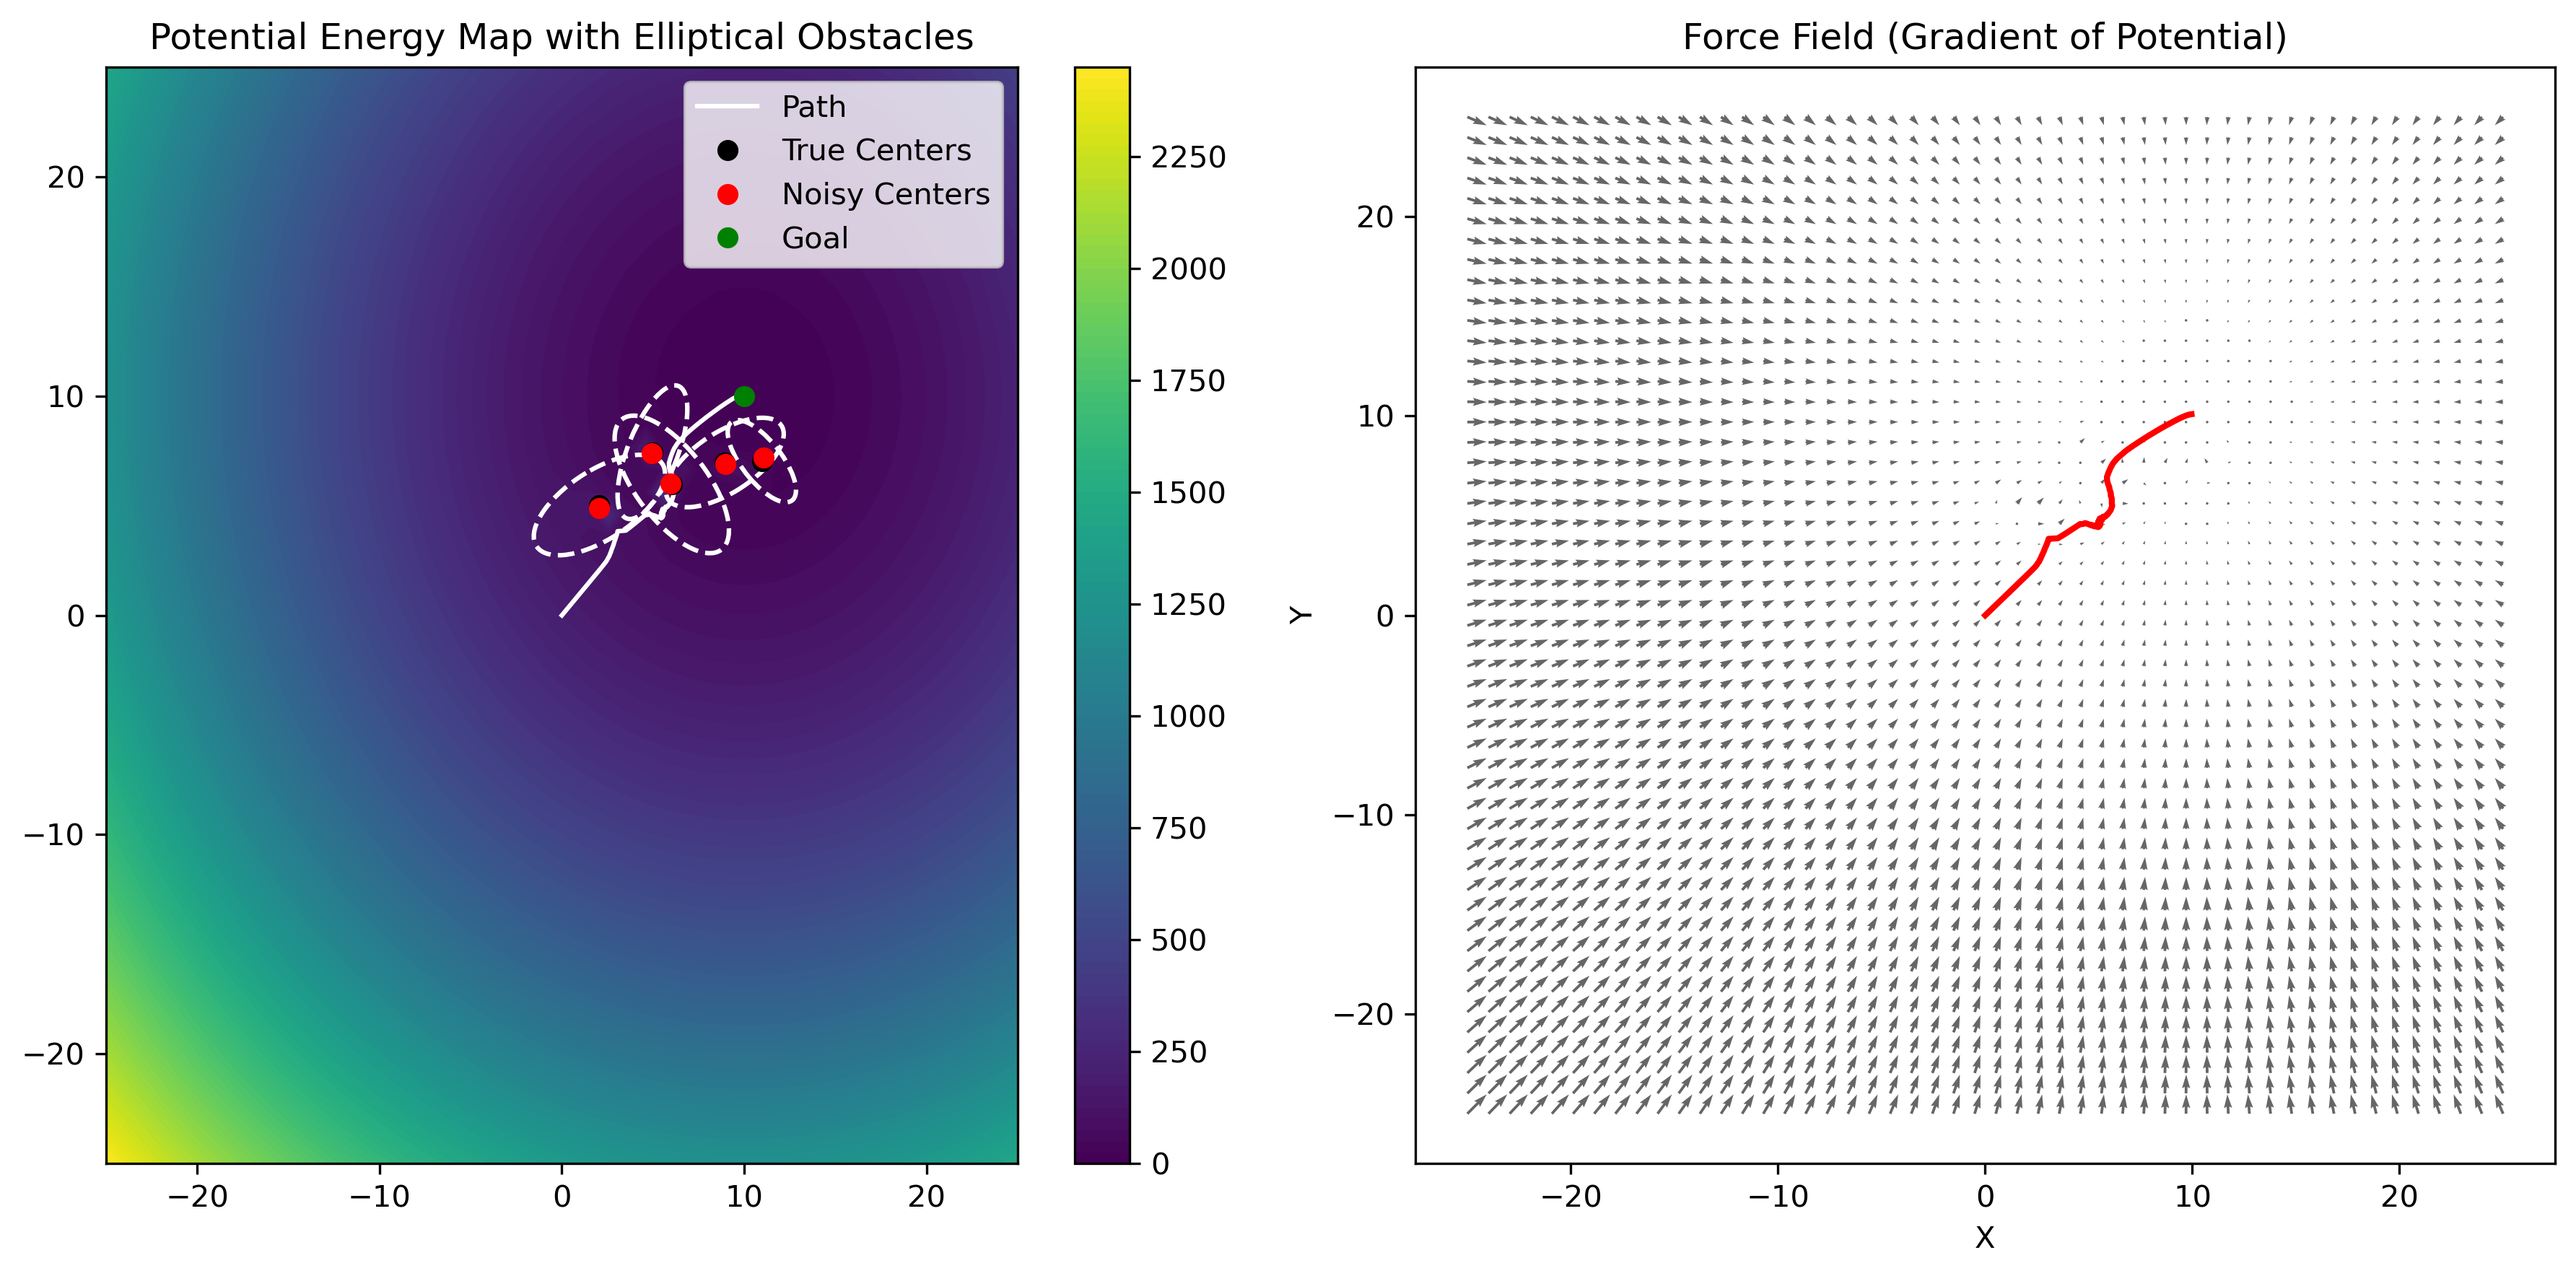
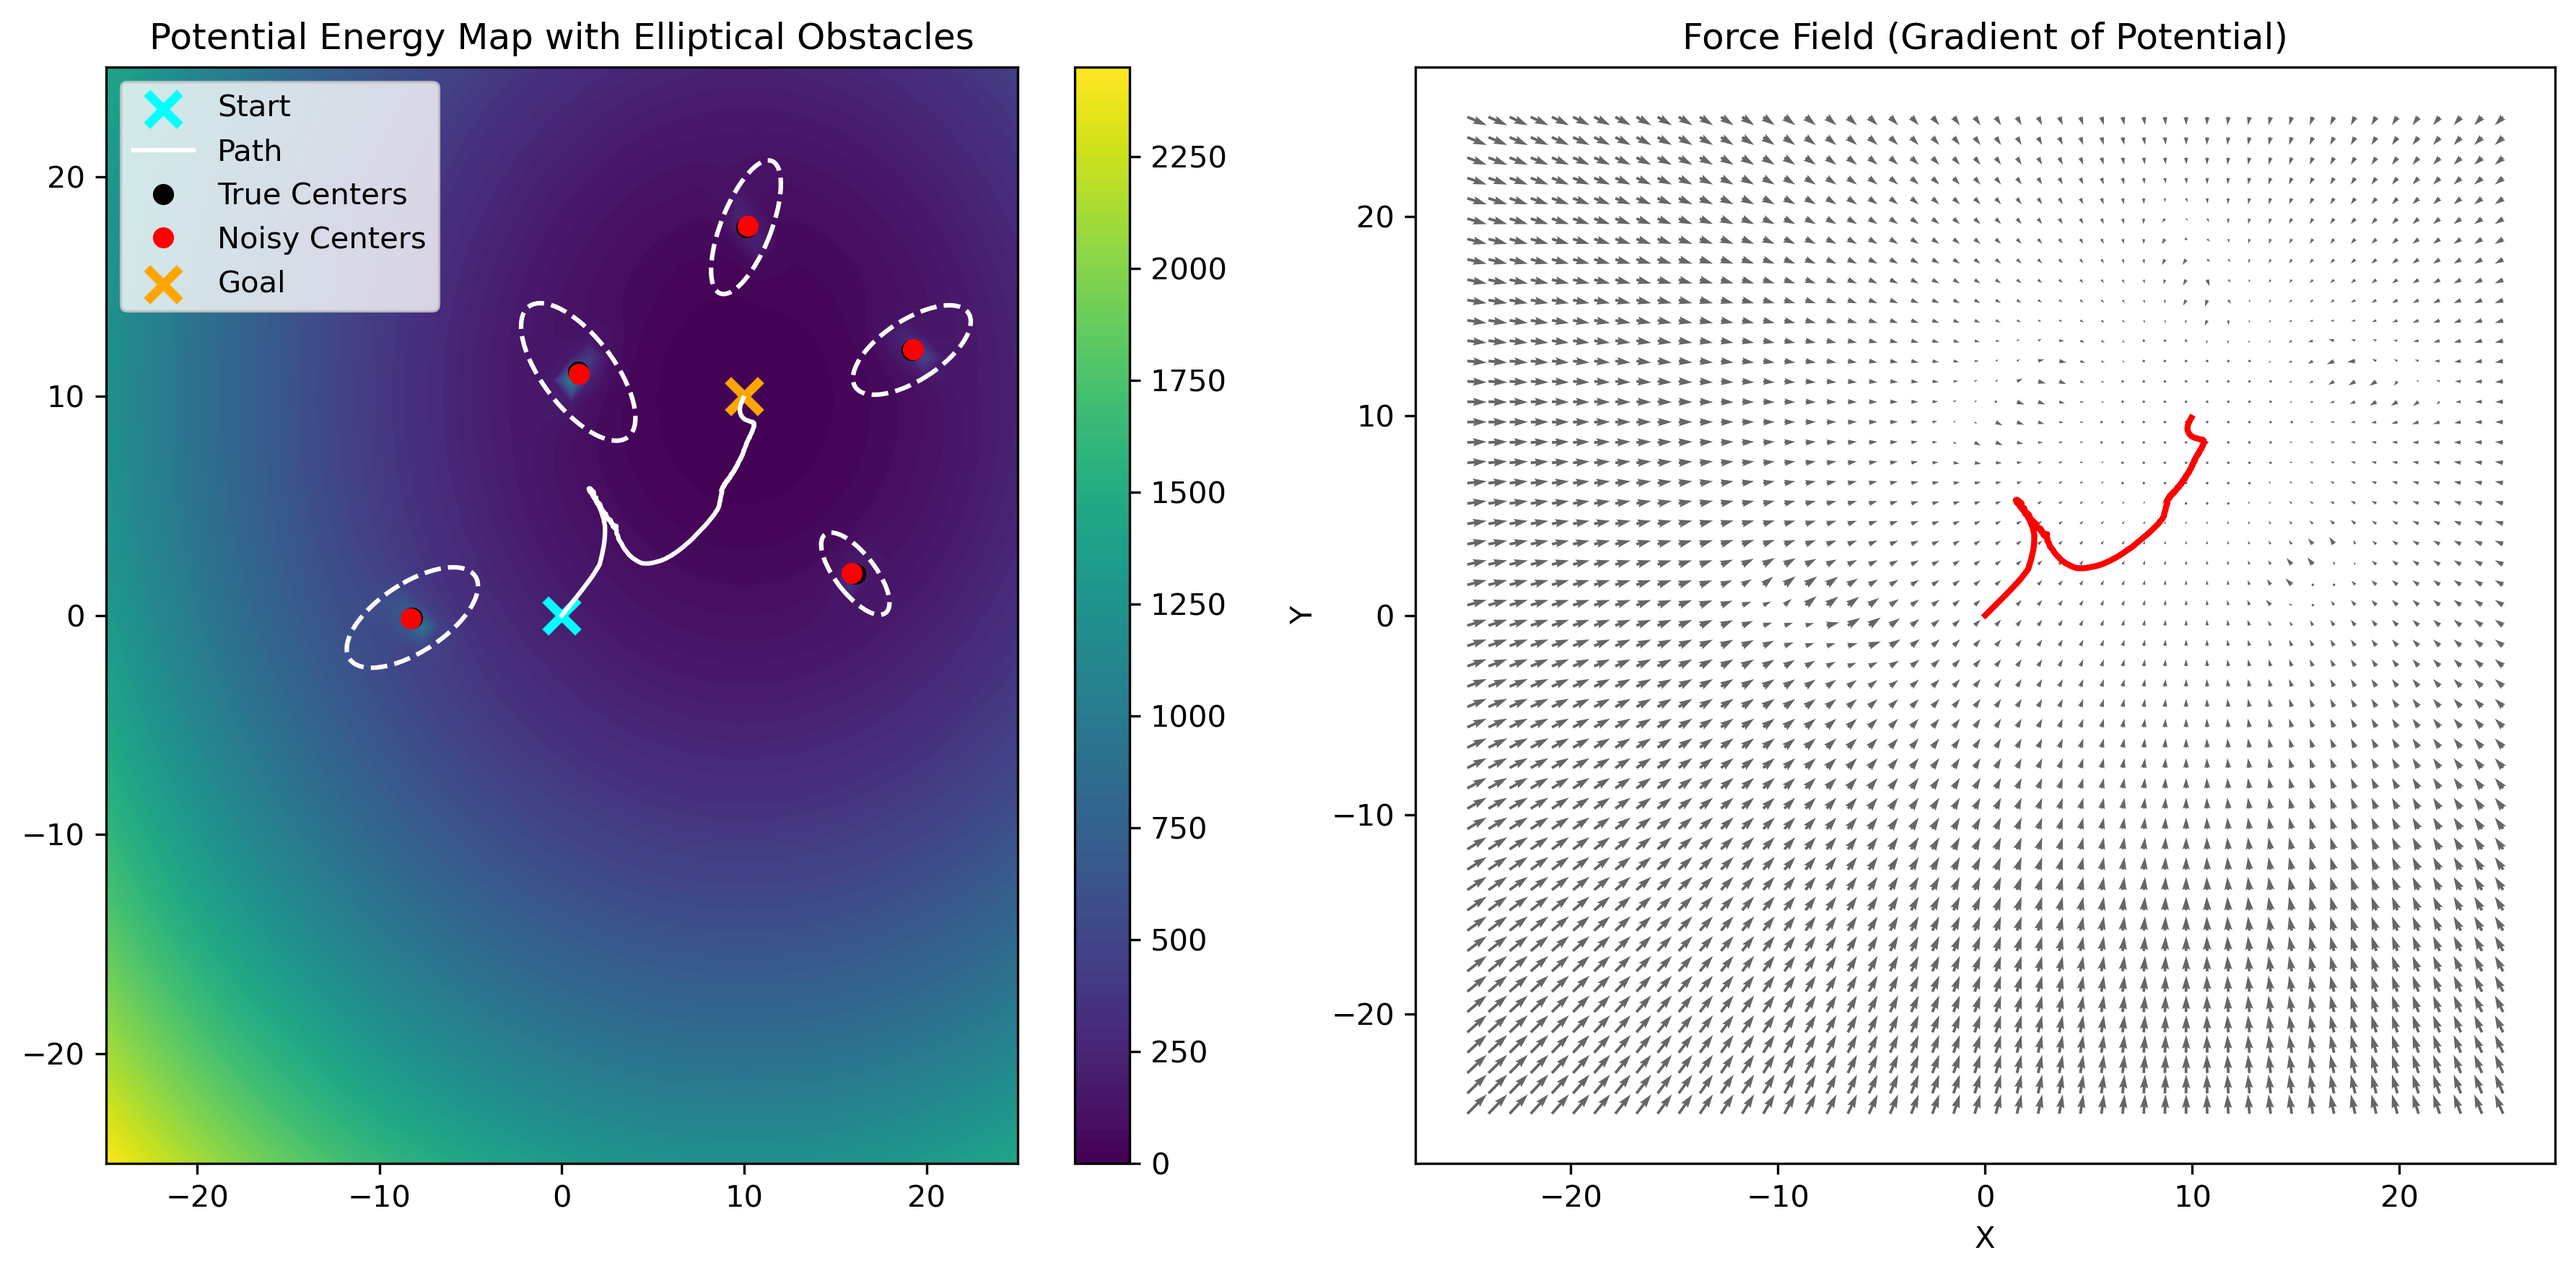
Update figures and dynamic demo

diff --git a/local_potential_field_demo_dynamic.py b/local_potential_field_demo_dynamic.py
@@ -27,7 +27,7 @@ obstacle_speeds = np.array([[0.1, 0.2], [-0.2, -0.1], [0.1, -0.1], [-0.1, 0.1], 
 obstacle_speeds = obstacle_speeds * 5
 
 # APF parameters
-k_att, k_rep, d0, dt = 2.0, 10.0, 2.0, 0.01
+k_att, k_rep, d0, dt = 2.0, 40.0, 2.0, 0.01
 max_rep_force = 14.0
 path_data = [q.copy()]
 initial_obstacles = obstacles_true.copy()
@@ -87,7 +87,7 @@ def repulsive_force(q, obstacles_noisy, obstacle_speeds):
         d0_i = 1.2 * max(a, b)
 
         if dE < d0_i:
-            F_mag = k_rep * (1/dE - 1/d0) * (1/dE**2)
+            F_mag = k_rep * (1/dE - 1/d0_i) * (1/dE**2)
             # yön vektörü (normalize edilmiş fark)
             grad_Dq = Q @ (q - obs) / (dE + 1e-12)
             # toplam kuvvet
@@ -123,7 +123,7 @@ def potential(q, q_goal, obstacles_noisy, obstacle_speeds):
 
         if dE < 1e-6:  # avoid division by zero
             dE = 1e-6
-        U_rep = 0.5 * k_rep * (1/dE - 1/d0)**2 if dE < d0_i else 0
+        U_rep = 0.5 * k_rep * (1/dE - 1/d0_i)**2 if dE < d0_i else 0
         U_rep_total += U_rep
     return U_att + U_rep_total
 
@@ -143,7 +143,7 @@ U = np.zeros_like(X)
 V = np.zeros_like(Y)
 
 # simulate the path
-max_steps = 1000
+max_steps = 2000
 tolerance = 0.1
 
 for step in range(max_steps):
@@ -190,26 +190,50 @@ for i in range(X.shape[0]):
 # ==========================================================
 
 # ---- 1⃣ 3D Potential Surface ----
-fig = plt.figure()
+fig = plt.figure(figsize=(10, 8))
 ax = fig.add_subplot(111, projection='3d')
-ax.plot_surface(X, Y, Z, cmap='viridis', alpha=0.9)
+
+# Surface + colorbar
+surf = ax.plot_surface(X, Y, Z, cmap='viridis', alpha=0.7)
+cbar = fig.colorbar(surf, ax=ax, shrink=0.6, pad=0.1)
+cbar.set_label("Potential Energy", fontsize=14)
+cbar.ax.tick_params(labelsize=12)
+
+# Path with correct potential computation
+ax.plot(path[:,0], path[:,1],
+        [potential(p, q_goal, obstacles_noisy, obstacle_speeds) for p in path],
+        color='red', linewidth=2, label='Path')
+
+# Start position (⭐)
+ax.scatter(path[0,0], path[0,1],
+           potential(path[0], q_goal, obstacles_noisy, obstacle_speeds),
+           color='cyan', marker='x', s=120, linewidths=3, label='Start')
 
 # REAL OBSTACLES (truth)
 ax.scatter(obstacles_true[:,0], obstacles_true[:,1],
-            np.max(Z)*0.8, color='black', s=50, label='True Obstacle Centers')
+            np.max(Z)*0.8, color='black', s=80, label='True Obstacle Centers')
 
-# NOISY (sensor-detected) OBSTACLES
+# NOISY OBSTACLES (sensor-detected) 
 ax.scatter(obstacles_noisy[:,0], obstacles_noisy[:,1],
-            np.max(Z)*0.8, color='red', s=50, label='Noisy Detected Centers')
+            np.max(Z)*0.8, color='red', s=80, label='Noisy Detected Centers')
 
-ax.scatter(q_goal[0], q_goal[1],
-            np.min(Z), color='green', s=50, label='Goal')
+# Goal position
+ax.scatter(q_goal[0], q_goal[1], np.min(Z),
+           color='orange', s=80, marker='x', linewidths=3, label='Goal')
 
-ax.set_xlabel('X')
-ax.set_ylabel('Y')
-ax.set_zlabel('Potential Energy')
-ax.set_title('3D Potential Field Surface')
-ax.legend()
+# FONT SIZE SETTINGS
+ax.set_xlabel('X', fontsize=16)
+ax.set_ylabel('Y', fontsize=16)
+ax.set_zlabel('Potential Energy', fontsize=16)
+
+ax.set_title('3D Potential Field Surface', fontsize=18)
+
+# Tick label size
+ax.tick_params(axis='both', labelsize=12)
+
+# Legend font size
+ax.legend(fontsize=14)
+
 plt.savefig("figures/fig_3d_potentialsurface.png", dpi=300, bbox_inches='tight')
 plt.show()
 
@@ -218,19 +242,27 @@ plt.show()
 fig, axs = plt.subplots(1, 2, figsize=(12, 6))
 contour = axs[0].contourf(X, Y, Z, levels=100, cmap='viridis')
 
+# --- Start Position ---
+start_x, start_y = path[0]
+axs[0].scatter(start_x, start_y, marker='x', s=120, color='cyan', linewidths=3, label='Start')
+
 axs[0].plot(path[:,0], path[:,1], 'w-', label='Path')
 
-# true vs noisy
+# true vs noisy obstacles
 axs[0].plot(obstacles_true[:,0], obstacles_true[:,1], 'ko', label='True Centers')
 axs[0].plot(obstacles_noisy[:,0], obstacles_noisy[:,1], 'ro', label='Noisy Centers')
 
-axs[0].plot(q_goal[0], q_goal[1], 'go', label='Goal')
+# --- Goal Position ---
+axs[0].scatter(q_goal[0], q_goal[1],
+               marker='x', s=120, color='orange', linewidths=3, label='Goal')
 
 # --- draw ellipses for TRUE obstacles
 for i, obs in enumerate(obstacles_true):
     vx, vy = obstacle_speeds[i]
     vmag = np.sqrt(vx**2 + vy**2)
     theta = np.degrees(np.arctan2(vy, vx + 1e-12))
+
+    # 1) Physical ellipse (dE = 1 boundary)
     a = a_base[i] + alpha * vmag
     b = b_base[i] + beta  * vmag
     ellipse = Ellipse(
@@ -258,32 +290,3 @@ plt.tight_layout()
 plt.savefig("figures/fig_contour_force.png", dpi=300, bbox_inches='tight')
 plt.show()
 
-# ---- 3⃣ 3D Path over Potential Surface ----
-fig = plt.figure()
-ax = fig.add_subplot(111, projection='3d')
-ax.plot_surface(X, Y, Z, cmap='viridis', alpha=0.7)
-
-# Path with correct potential computation
-ax.plot(path[:,0], path[:,1],
-        [potential(p, q_goal, obstacles_noisy, obstacle_speeds) for p in path],
-        color='red', linewidth=2, label='Path')
-
-ax.scatter(q_goal[0], q_goal[1], 0, color='green', s=50, label='Goal')
-
-# true obstacles 
-ax.scatter(obstacles_true[:,0], obstacles_true[:,1],
-           np.zeros(len(obstacles_true)),  
-           color='black', s=50, label='True Centers')
-
-# noisy centers
-ax.scatter(obstacles_noisy[:,0], obstacles_noisy[:,1],
-           np.zeros(len(obstacles_noisy)),
-           color='red', s=50, label='Noisy Centers')
-
-ax.set_xlabel('X')
-ax.set_ylabel('Y')
-ax.set_zlabel('Potential')
-ax.set_title('3D Potential Field with Path')
-ax.legend()
-plt.savefig("figures/fig_3d_path.png", dpi=300, bbox_inches='tight')
-plt.show()
